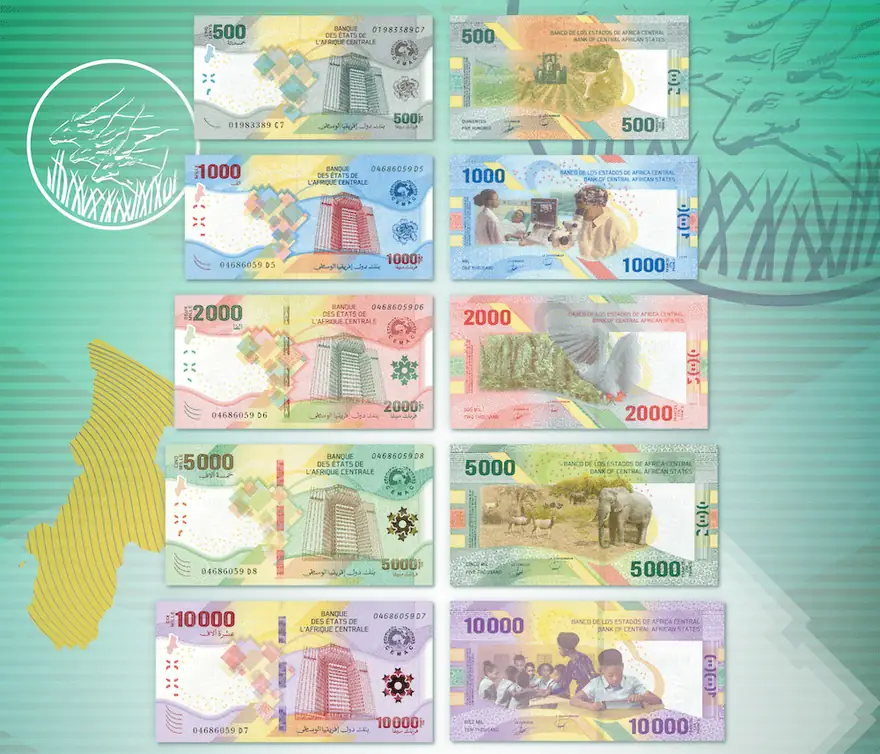
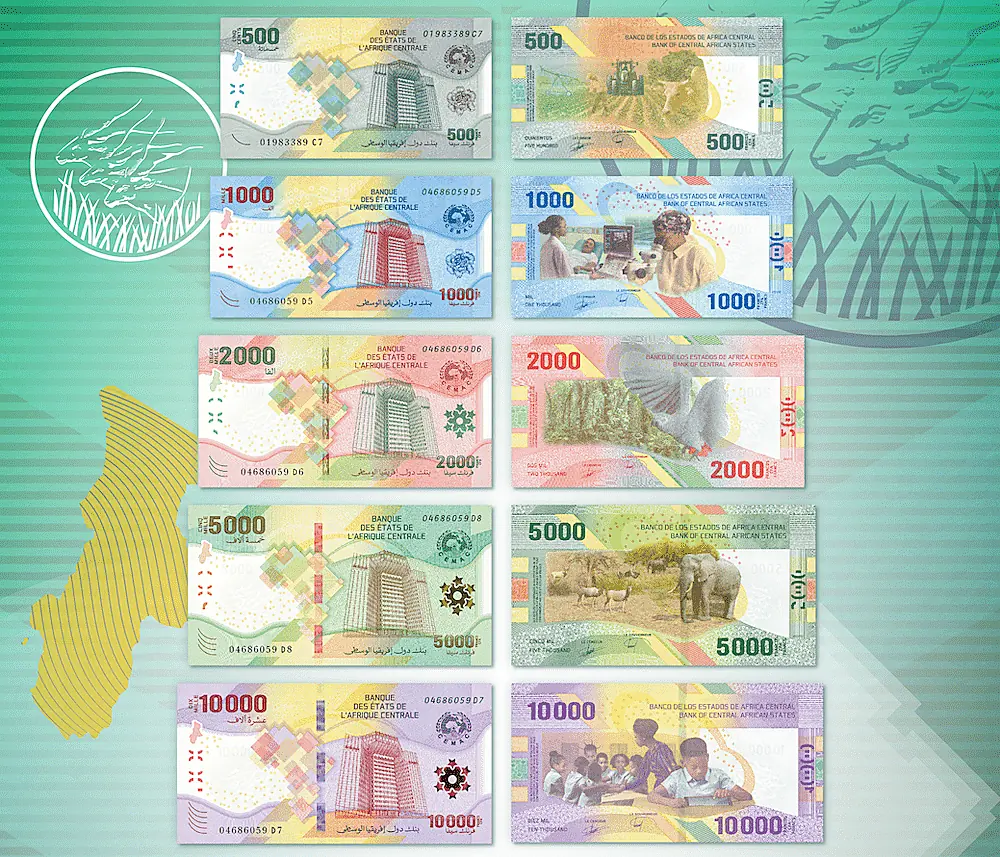
Sharpen the currency motifs and bring them further forward
Two of the four photographs were being shipped downscaled to 880px and
encoded at quality 68, which cost detail the sources actually had. All four
now ship at full source resolution with an unsharp pass, which restores the
local contrast that JPEG quantisation and the downscale had flattened —
the engraving on the notes reads as engraving again rather than as mush.

Opacity goes from 0.32 to 0.46 on the light canvas and 0.24 to 0.35 on the
dark one, and the radial masks open up to match: at the old stops the extra
opacity would have read as a brighter blob rather than as more photograph.

Sharpening costs bits, so the full-resolution files are 160-200kB rather
than 70. Phones paint these at roughly a quarter of the desktop width, so
that would be all weight and no detail there — half-size variants are
swapped in under 640px, and only the variant that applies is fetched: a
phone pulls 48kB where a desktop pulls 196kB, which is less than a phone
was pulling before this change.

The sources top out at 1024px, so this is the sharpest these particular
files can be. Genuine 4K would need higher-resolution originals; the CSS
would not have to change to take them.

Text contrast re-checked at the new opacity. Two paragraphs now have a
motif reaching the empty right end of their line boxes; sampling the modal
colour of each line — which for a line of text is its background — the
background under them is byte-identical with and without the motif, at
8.23:1 and 11.24:1.
[…]

diff --git a/src/index.css b/src/index.css
@@ -364,7 +364,7 @@ body * {
   background-repeat: no-repeat;
   background-position: center;
   background-size: contain;
-  opacity: 0.32;
+  opacity: 0.46;
   /* Multiply drops the photographs' white paper out against a light canvas,
      leaving only the printed detail behind the page. Against a near-white
      canvas it is close to a no-op on hue, so the notes keep their own
@@ -373,7 +373,7 @@ body * {
 }
 
 :root.dark .gf-motif {
-  opacity: 0.24;
+  opacity: 0.35;
   /* Screen is multiply's mirror: on a near-black canvas it keeps the printed
      detail and drops the paper, instead of stamping a dark rectangle. */
   mix-blend-mode: screen;
@@ -386,8 +386,8 @@ body * {
   aspect-ratio: 1000 / 857;
   background-image: url('./assets/cfa-banknotes.webp');
   transform: rotate(-7deg);
-  -webkit-mask-image: radial-gradient(ellipse 78% 78% at 62% 42%, #000 32%, transparent 76%);
-  mask-image: radial-gradient(ellipse 78% 78% at 62% 42%, #000 32%, transparent 76%);
+  -webkit-mask-image: radial-gradient(ellipse 82% 82% at 62% 42%, #000 42%, transparent 84%);
+  mask-image: radial-gradient(ellipse 82% 82% at 62% 42%, #000 42%, transparent 84%);
 }
 
 .gf-motif--coins {
@@ -397,8 +397,8 @@ body * {
   aspect-ratio: 450 / 283;
   background-image: url('./assets/cfa-coins.webp');
   transform: rotate(5deg);
-  -webkit-mask-image: radial-gradient(ellipse 80% 80% at 45% 55%, #000 26%, transparent 74%);
-  mask-image: radial-gradient(ellipse 80% 80% at 45% 55%, #000 26%, transparent 74%);
+  -webkit-mask-image: radial-gradient(ellipse 84% 84% at 45% 55%, #000 36%, transparent 82%);
+  mask-image: radial-gradient(ellipse 84% 84% at 45% 55%, #000 36%, transparent 82%);
 }
 
 /* The second pair. Every page shows exactly one pair, alternating as you move
@@ -411,8 +411,8 @@ body * {
   aspect-ratio: 1024 / 632;
   background-image: url('./assets/cfa-notes-fan.webp');
   transform: rotate(-5deg);
-  -webkit-mask-image: radial-gradient(ellipse 76% 76% at 58% 46%, #000 30%, transparent 74%);
-  mask-image: radial-gradient(ellipse 76% 76% at 58% 46%, #000 30%, transparent 74%);
+  -webkit-mask-image: radial-gradient(ellipse 80% 80% at 58% 46%, #000 40%, transparent 82%);
+  mask-image: radial-gradient(ellipse 80% 80% at 58% 46%, #000 40%, transparent 82%);
 }
 
 /* This one is a cutout — the studio white behind the notes is transparent in
@@ -427,8 +427,8 @@ body * {
   aspect-ratio: 749 / 267;
   background-image: url('./assets/cfa-note-series.webp');
   transform: rotate(-3deg);
-  -webkit-mask-image: linear-gradient(to right, #000 42%, transparent 94%);
-  mask-image: linear-gradient(to right, #000 42%, transparent 94%);
+  -webkit-mask-image: linear-gradient(to right, #000 55%, transparent 96%);
+  mask-image: linear-gradient(to right, #000 55%, transparent 96%);
 }
 
 /* On a phone the motif would sit directly under body copy at a size where it
@@ -436,7 +436,24 @@ body * {
    so small screens keep the same character. */
 @media (max-width: 640px) {
   .gf-motif {
-    opacity: 0.2;
+    opacity: 0.28;
+  }
+
+  /* A phone paints these at roughly a quarter of the desktop width, so the
+     full-resolution files are all weight and no detail there. Half-size
+     variants keep the same picture for a fifth of the bytes, which is the
+     difference that matters on the connections this audience is on. The
+     coins are small enough at source to need no variant. */
+  .gf-motif--notes {
+    background-image: url('./assets/cfa-banknotes-sm.webp');
+  }
+
+  .gf-motif--fan {
+    background-image: url('./assets/cfa-notes-fan-sm.webp');
+  }
+
+  .gf-motif--series {
+    background-image: url('./assets/cfa-note-series-sm.webp');
   }
 }
 
